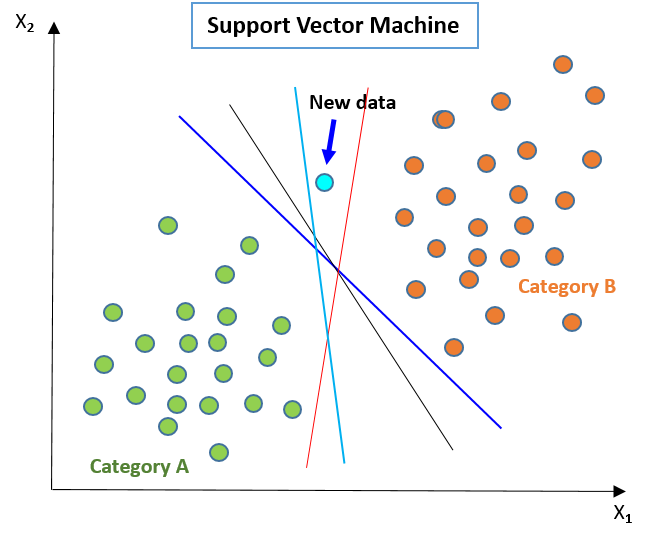
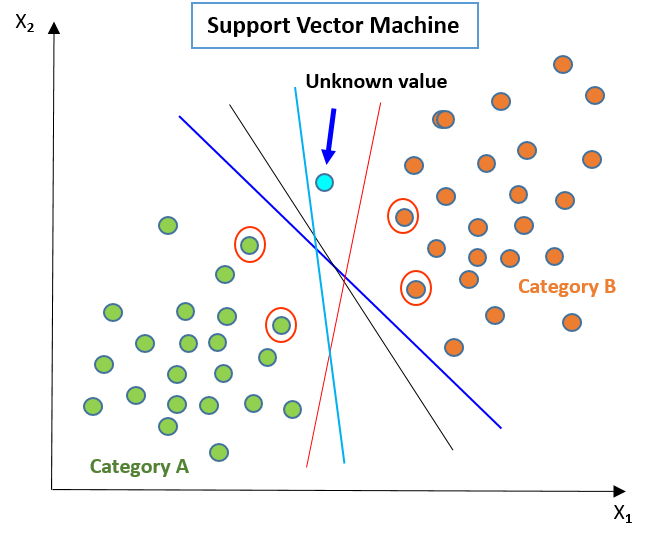
SVM

diff --git a/support-vector.html b/support-vector.html
@@ -247,19 +247,150 @@
     </div>
 
     <!--------------------------------->
-    <h4 id="explanation">support-vector-machine explanation</h4>
-    Let us consider the two set of datasets and want to classify them into two classes. In the below figure, we have two set of datasets, one in green and one orange.
+    <h5 id="explanation">Support-vector-machine explanation: 2D</h5>
+    <p>Imagine you have a scatter plot where the green points represent one class and the orange points represent another class. To separate these two classes, an SVM seeks to find the best-fitting line or plane (hyperplane) that maximizes the margin between the two classes.</p>
     <figure>
-        <img src="assets/img/machine-ln/support-vector-machine.png" alt="" style="max-width: 90%; max-height: auto;">
-        <figcaption style="text-align: center;"></figcaption>
+        <img src="assets/img/machine-ln/support-vector-machine.png" alt="" style="max-width: 40%; max-height: auto;">
+        <figcaption style="text-align: center;">Support vectors in circle (<strong>Image credit:</strong> &#169; <a href="index.html">@arunp77</a>)</figcaption>
     </figure>
-    <p>The next step is to draw a decision boundary, or a line separating the two classes to help classify the new data points. We  can actually draw several boundaries, as shown above. Then, we need to find the line of best fit that clearly separates those two groups. The correct line will help us classify the new data point. We can find the best line by computing the maximum margin from equidistant support vectors. Support vectors in this context simply mean the two points — one from each class that are closest together, but that maximize the distance between them or the margin.</p>
+    <p>The next step is to draw a decision boundary, or a line separating the two classes to help classify the new data points. We  can actually draw several boundaries, as shown above. Then, we need to find the line of best fit that clearly separates those two groups. The correct line will help us classify the new data point. <strong><em>We can find the best line by computing the maximum margin from equidistant support vectors</em></strong>. The support vectors are the data points closest to this separating hyperplane. These points play a critical role because they help determine the position and orientation of the hyperplane. By choosing support vectors strategically, the SVM ensures that the margin between the two classes is maximized. Now, let's talk about the margin. The margin is the distance between the support vectors and the hyperplane. Maximizing this margin is essential because it provides a buffer zone, making the classification more robust to noise and outliers. Essentially, the larger the margin, the more confident we can be in the classification. However, not all data points are equal in determining the hyperplane and margin. The SVM assigns different weights to each data point based on their proximity to the hyperplane. The farther a data point is from the hyperplane, the less influence it has on determining the hyperplane's position.</p>
+    <p>So in summary when using an SVM to classify data points into different classes:</p>
+    <ul>
+        <li>Support vectors are chosen as the data points closest to the separating hyperplane.</li>
+        <li>The margin, or the distance between the support vectors and the hyperplane, is maximized to ensure robust classification.</li>
+        <li>Each data point's influence on determining the hyperplane's position is weighted based on its proximity to the hyperplane.</li>
+    </ul>
+
+    <h5 id="explanantion-2">Example 2: Classification problem with higher dimension data</h5>
+    <p>The data set shown below in Image-(a) has no clear linear separation between the two classes. In machine learning parlance, we would say that these are not linearly separable. How can we get the support vector machine to work on such data? </p>
+    <figure>
+        <img src="assets/img/machine-ln/support-vector-machine-3D.png" alt="" style="max-width: 80%; max-height: auto;">
+        <figcaption style="text-align: center;">Support vectors in circle (<strong>Image credit:</strong> &#169; <a href="index.html">@arunp77</a> )</figcaption>
+    </figure>
+    <p>Since we can't separate it into two classes using a line, we need to transform it into a higher dimension by employing a kernel function to the data set. A higher dimension enables us to clearly separate the two groups with a plane. Here, we can draw some planes between the green dots and the orange dots — with the end goal of maximizing the margin. If we let R=the number of dimensions, the kernel function will convert a two-dimensional space (R2) to a three-dimensional space (R3). Once the data is separated into three dimensions, we can apply SVM and separate the two groups using a two-dimensional plane. For a higher dimension, we would have to use higher diemntsional curve. </p>
+    
+    <!--------------------->
+    <h3 id="kernel-fun">Kernel Functions:</h3> 
+    <p>Kernel functions play a fundamental role in Support Vector Machines (SVMs), enabling them to handle non-linear relationships between features and find complex decision boundaries. Let's delve into a detailed explanation of kernel functions: </p>
+
+    <!------------------->
+    <h5 id="purpose-kernel">Purpose of Kernel Functions</h5>
+    <p>Kernel functions are mathematical transformations applied to input data in SVMs. Their primary purpose is to map the original input space into a higher-dimensional feature space, where the classes may be more easily separable by a hyperplane. By transforming the data into a higher-dimensional space, kernel functions enable SVMs to capture non-linear relationships and complex patterns in the data. A kernel function, denoted as \(K(\textbf{x}, \textbf{x}')\), takes two input vectors \(\textbf{x}\) and \(\textbf{x}'\) and computes a measure of similarity or distance between them. This measure is often represented as the dot product of the transformed feature vectors in the higher-dimensional space.</p>
+
+    <h5 id="types=kernel">Types of Kernel Functions</h5>
+    <p>There are several types of kernel functions commonly used in SVMs. For the input vectors \(\textbf{x}\) and \(\textbf{x}'\):</p>
+    <ul>
+        <li><strong>Linear Kernel \(K_{\text{linear}}(\textbf{x},\textbf{x}')\):</strong> This is the simplest kernel function, where the dot product of the input vectors is computed directly in the original feature space. It is suitable for linearly separable data.
+        $$K_{\text{linear}}(\textbf{x}, \textbf{x}') = \textbf{x}^T \textbf{x}'$$
+        here \(\textbf{x}^T\) represents the transpose of vector \(\textbf{x}\), and \(\textbf{x}'\) is another vector.
+        <ul>
+            <li><strong>Interpretation:</strong> The linear kernel measures the similarity between two vectors by taking into account the alignment of their features. It computes the weighted sum of the products of corresponding features in the input vectors.</li>
+            <li><strong>Features:</strong> In the original feature space, each input vector \(\textbf{x}\) is represented by a set of features. The dot product \(\textbf{x}^T \textbf{x}'\) calculates the sum of the products of corresponding features in vector \(\textbf{x}\) and \(\textbf{x}'\), effectively measuring their similalrity.</li>
+            <li><strong>Linear Separation:</strong> The linear kernel is suitable for linearly separable data, where a straight line (or hyperplane in higher dimensions) can effectively separate the classes. It works well when the decision boundary between classes can be represented by a linear equation.</li>
+            <li><strong>Advantages: </strong>
+            <ul>
+                <li><strong>Simplicity:</strong> The linear kernel is straightforward and computationally efficient.</li>
+                <li><strong>Interpretability:</strong> The decision boundary learned by SVM with a linear kernel can be easily interpreted as a linear combination of input features.</li>
+            </ul>
+            </li>
+            <li><strong>Limitations: </strong>
+            <ul>
+                <li><strong>Limited Complexity:</strong> The linear kernel may not capture complex relationships between features and classes, making it less suitable for datasets with non-linear separability.</li>
+                <li><strong>Performance on Non-linear Data:</strong> In cases where the data is not linearly separable, the linear kernel may lead to suboptimal classification performance.</li>
+            </ul>
+            </li>
+            <li><strong>Applications:</strong>
+            <ul>
+                <li><strong>Text Classification:</strong> Linear kernels are commonly used in text classification tasks where the feature space is often high-dimensional.</li>
+                <li><strong>Linear Regression:</strong> Linear kernels can be applied in linear regression problems to model relationships between input features and target variables.</li>
+            </ul>
+            </li>
+            <li><strong>Example:</strong>Let's consider a simple example with two input vectors \(\textbf{x}\) and \(\textbf{x}'\) represented by two-dimensional feature vectors. The linear kernel computes the dot product of these vectors directly in the original feature space. Suppose we have two input vectors
+            $$x = \begin{pmatrix} x_1 \\ x_2 \end{pmatrix}$$
+            and 
+            $$x' = \begin{pmatrix} x'_1 \\ x'_2 \end{pmatrix}$$
+            <p>The linear Kernel between the two vectors is computed as:</p>
+            $$K_{\text{linear}}(\textbf{x}, \textbf{x}') = \textbf{x}^T \textbf{x} =\begin{pmatrix} x_1 & x_2 \end{pmatrix} \begin{pmatrix} x'_1 \\ x'_2 \end{pmatrix} = x_1 x_1'+x_2 x_2'$$
+            This equation represents the similarity between the two input vectors \(\textbf{x}\) and \(\textbf{x}'\) based on the alignment of their features. The larger the value of the Kernel \(K_{\text{linear}}(\textbf{x}, \textbf{x}')\), the more similar the vectors \(\textbf{x}\) and \(\textbf{x}'\) are considered to be. For example two vectors:
+            $$x = \begin{pmatrix} 2 \\ 3 \end{pmatrix}$$
+            and 
+            $$x' = \begin{pmatrix} 4 \\ 1 \end{pmatrix}$$
+            Kernel \(K_{\text{linear}}(\textbf{x}, \textbf{x}') = 11\) indicating a relatively high similalrity between the two inputs vectors. 
+            </li>
+        </ul>
+        </li>
+        <li><strong>Polynomial Kernel \(K_{\text{poly}}(\textbf{x},\textbf{x}')\):</strong>
+            The Polynomial Kernel is a type of kernel function used in Support Vector Machines (SVMs) to handle non-linear relationships between features. It transforms the input data into a higher-dimensional space, where it may be easier to find a separating hyperplane. The polynomial kernel raises the dot product of the input vectors to a certain power \(d\), allowing SVMs to capture polynomial decision boundaries. It is defined as
+        $$K_{\text{poly}}(\textbf{x},\textbf{x}') = \left(\textbf{x}\cdot \textbf{x}'+c\right)^d,$$
+        where \(c\) is a constant and \(d\) is the degree of the polynomial.
+        <ul>
+            <li><strong>Role of Parameters: </strong>
+                <ul>
+                    <li><strong>Degree \((d)\):</strong> The degree parameter determines the degree of the polynomial transformation applied to the input data. Higher values of \(d\) result in more complex decision boundaries.</li> 
+                    <li><strong>Constant \((c)\):</strong>The constant term acts as a bias and helps control the influence of lower-degree polynomials. It shifts the decision boundary away from the origin in the feature space.</li>         
+                </ul>
+            </li> 
+            <li><strong>Kernel Properties:</strong>
+                <ul>
+                    <li><strong>Linearity: </strong>Despite its name, the Polynomial Kernel is capable of capturing non-linear relationships between features. By raising the dot product of the input vectors to a higher power, the kernel can represent complex decision boundaries.</li> 
+                    <li><strong>Computational Complexity: </strong>The computational complexity of the Polynomial Kernel depends on the degree parameter \(d\). Higher values of \(d\) increase the computational cost, as they require computing higher-order polynomials. </li>         
+                </ul>
+            </li> 
+            <li><strong>Choice of Parameters: </strong>
+                <ul>
+                    <li><strong>Degree \((d)\): </strong>The degree parameter should be chosen based on the complexity of the data and the desired level of model flexibility. Higher values of \(d\) may lead to overfitting if the data is not complex enough to warrant such a high-degree polynomial.</li> 
+                    <li><strong>Constant Term \((c)\): </strong> The constant term \(c\) can be set empirically or through cross-validation. It helps adjust the bias of the model and fine-tune the decision boundary.</li>
+                </ul>
+            </li> 
+            <li><strong>Example Application:</strong> The Polynomial Kernel is commonly used in SVMs for tasks such as image classification, text classification, and pattern recognition. It is effective in capturing non-linear relationships between features and constructing complex decision boundaries in high-dimensional feature spaces. </li>
+        </ul>
+        <p>In summary, the Polynomial Kernel is a versatile kernel function that allows SVMs to handle non-linear relationships between features by transforming the input data into a higher-dimensional space. It offers flexibility in capturing complex patterns and can be customized through parameters like degree and constant term to suit the characteristics of the data.</p>
+        </li>
+        <li><strong>Radial Basis Function (RBF) Kernel \(K_{\text{RBF}}(\textbf{x}, \textbf{x}')\):</strong> The Radial Basis Function (RBF) kernel, also known as the Gaussian kernel, is a popular choice in Support Vector Machines (SVMs) for its ability to capture complex non-linear relationships between data points. The RBF kernel computes the similarity between two input vectors \(\textbf{x}\) and \(\textbf{x}'\) based on the Euclidean distance between them in the input space. Mathematically, the RBF kernel is defined as:
+            $$K_{\text{RBF}}(\textbf{x}, \textbf{x}') = \exp\left(-\gamma \|\textbf{x} - \textbf{x}'\|^2\right)$$
+            <p>Here, \(\gamma>0\) is a parameter controlling the kernel's width, and \(\|\textbf{x}-\textbf{x}'\|\) represents the Euclidean distance between vectors \(\textbf{x}\) and \(\textbf{x}'\).</p>
+            <ul>
+                <li><strong>Interpretation: </strong>
+                    <ul>
+                        <li>The RBF kernel measures the similarity or closeness between two data points based on their distance in the input space.</li>
+                        <li>When \(\textbf{x}\) and \(\textbf{x}'\) are close to each other, their Euclidean distance  \(\|\textbf{x}-\textbf{x}'\|\) is small, resulting in a high similalrity value.</li>
+                        <li>Conversely, when \(\textbf{x}\) and \(\textbf{x}'\) are far apart, their distance increases, leading to a lower similalrity value. </li>
+                        <li>The paramter \(\gamma\) controls the kernel's width, determing how quickly the similalrity decays as the distance between points increases. A smaller \(\gamma\) results in a broder kernel, capturing more global relationships. while a larger \(\gamma\) focuses on local relationships.</li>
+                    </ul>
+                </li>
+                <li><strong>Effect on SVM Decision Boundary:</strong>
+                    <ul>
+                        <li>In SVMs, the RBF kernel allows for the construction of non-linear decision boundaries that can adapt to complex data distributions.</li>
+                        <li>By mapping the input data into a higher-dimensional feature space implicitly, the RBF kernel transforms the data in a way that enables SVMs to find optimal separating hyperplanes even for non-linearly separable data.</li>
+                    </ul>
+                </li>
+                <li><strong>Choice of \(\gamma\):</strong>
+                    <ul>
+                        <li>The choice of the \(\gamma\) parameter is critical in determining the behavior of the RBF kernel.</li>
+                        <li>A smaller \(\gamma\) value results in a smoother decision boundary, capturing broader patterns in the data but potentially leading to underfitting.</li>
+                        <li>Conversely, a larger \(\gamma\) value creates a more complex decision boundary, capturing finer details in the data but increasing the risk of overfitting.</li>
+                    </ul>
+                </li>
+                <li><strong>Application: </strong>
+                    <ul>
+                        <li>The RBF kernel is widely used in SVMs for various classification tasks, including image recognition, text classification, and bioinformatics.</li>
+                        <li>Its flexibility in capturing non-linear relationships makes it suitable for datasets with complex structures and intricate patterns.</li>
+                    </ul>
+                </li>
+            </ul>
+            <p>In summary, the Radial Basis Function (RBF) kernel is a powerful tool in SVMs for capturing non-linear relationships between data points. Its ability to adapt to complex data distributions and construct flexible decision boundaries makes it a popular choice for a wide range of classification tasks.</p>
+        </li>
+        <li><strong>Sigmoid Kernel:</strong> The sigmoid kernel computes the similarity between two vectors using the hyperbolic tangent function:
+        $$K_{\text{sigmoid}}(\textbf{x}, \textbf{x}') = \text{tanh}\left(\alpha x^T x' +\beta\right)$$
+        In this equation, \(\alpha\) and \(\beta\) are parameters.
+        </li>
+        <li><strong>Kernel Trick:</strong> The kernel trick is a computational shortcut that allows SVMs to implicitly compute the dot product between feature vectors in the higher-dimensional space without explicitly calculating the transformation. This is achieved by expressing the optimization problem in terms of kernel functions, avoiding the need to compute the transformation explicitly.</li>
+    </ul>
 
 
 
 
-
-
+    
 
     <!--------------------------------->
     <h3 id="types-svm">Types of Support Vector Machine (SVM) Algorithms</h3>
